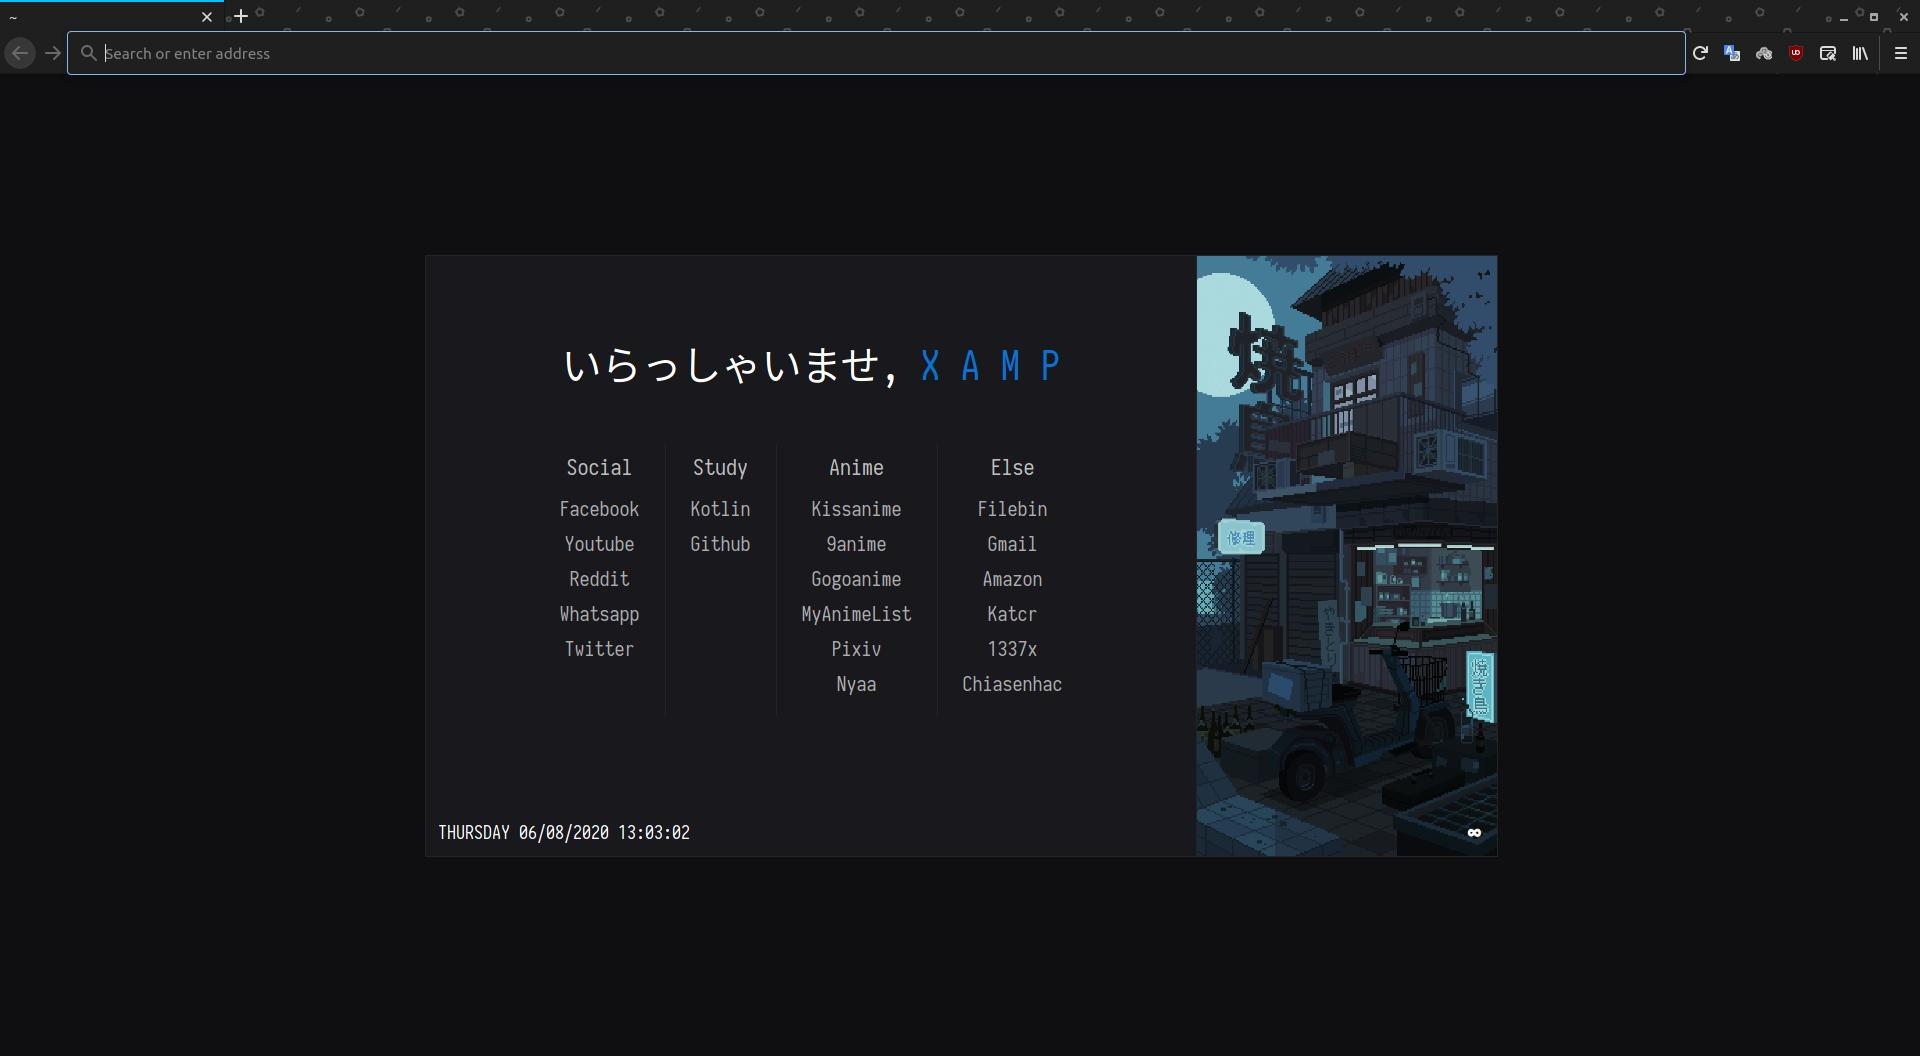
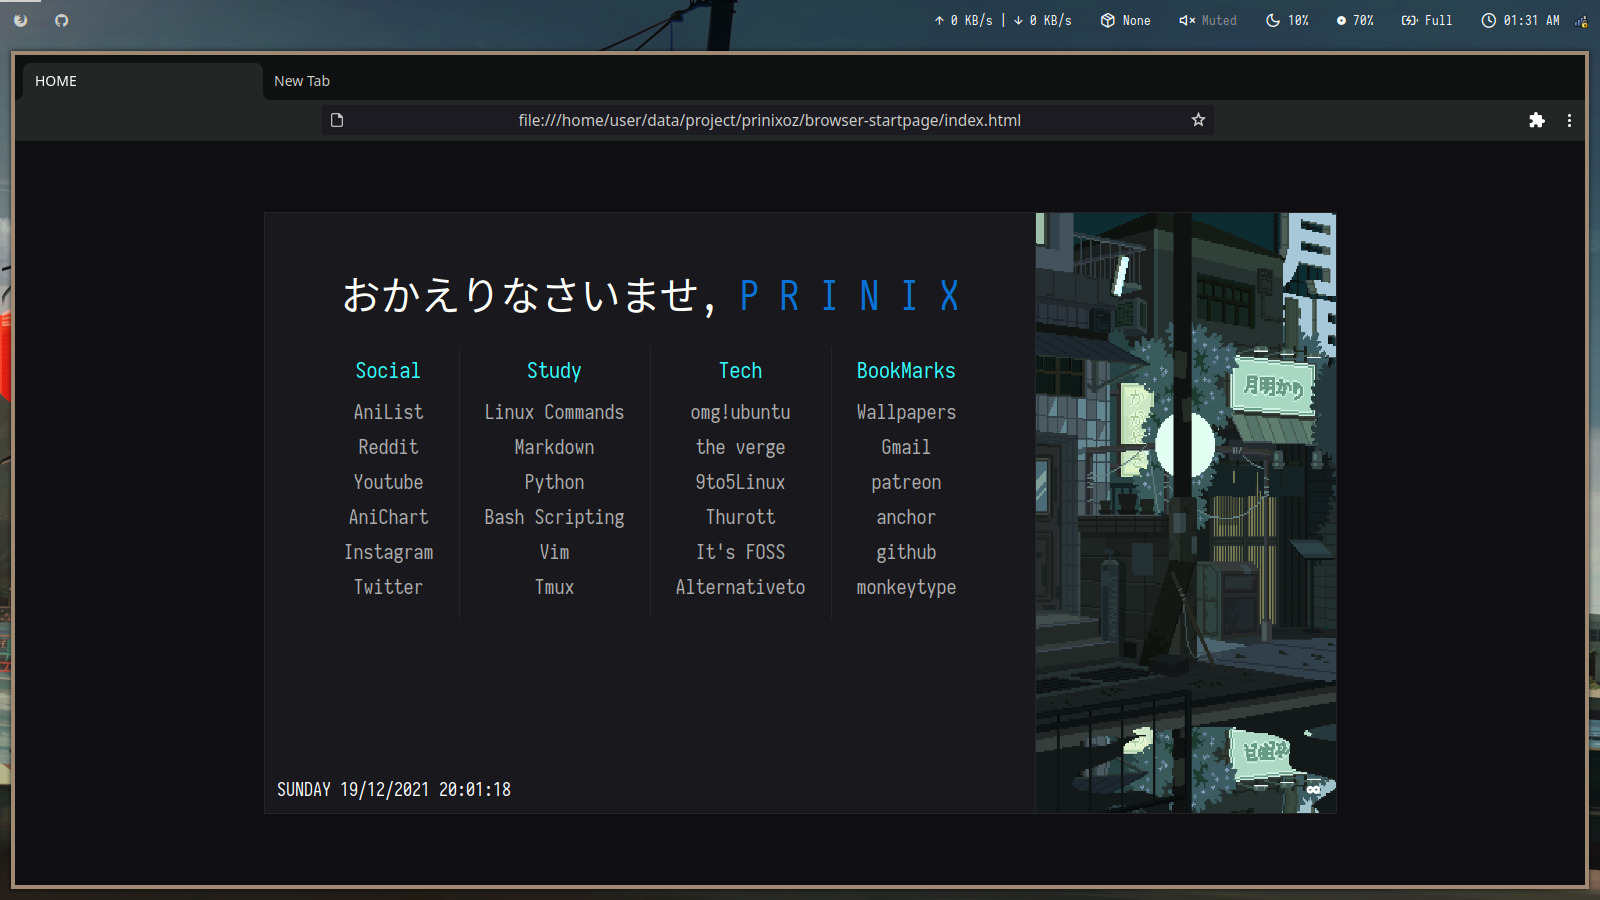
+

diff --git a/index.html b/index.html
@@ -11,128 +11,11 @@
 		<div class="image-wrapper">
 
 			<div class="mySlides fade">
-				<img src="img/side1.gif">
+				<img id="sl-img" src="img/side1.gif">
 			</div>
-
-			<div class="mySlides fade">
-				<img src="img/side2.gif">
-			</div>
-
-			<div class="mySlides fade">
-				<img src="img/side3.gif">
-			</div>
-
-			<div class="mySlides fade">
-				<img src="img/side4.gif">
-			</div>
-
-			<div class="mySlides fade">
-				<img src="img/side5.gif">
-			</div>
-
-			<div class="mySlides fade">
-				<img src="img/side6.gif">
-			</div>
-
-			<div class="mySlides fade">
-				<img src="img/side7.gif">
-			</div>
-
-			<div class="mySlides fade">
-				<img src="img/side8.gif">
-			</div>
-
-			<div class="mySlides fade">
-				<img src="img/side9.gif">
-			</div>
-
-			<div class="mySlides fade">
-				<img src="img/side10.gif">
-			</div>
-
-			<div class="mySlides fade">
-				<img src="img/side11.gif">
-			</div>
-
-			<div class="mySlides fade">
-				<img src="img/side12.gif">
-			</div>
-
-			<div class="mySlides fade">
-				<img src="img/side13.gif">
-			</div>
-
-			<div class="mySlides fade">
-				<img src="img/side14.gif">
-			</div>
-
-			<div class="mySlides fade">
-				<img src="img/side15.gif">
-			</div>
-
-			<div class="mySlides fade">
-				<img src="img/side16.gif">
-			</div>
-
-			<div class="mySlides fade">
-				<img src="img/side17.gif">
-			</div>
-
-			<div class="mySlides fade">
-				<img src="img/side18.gif">
-			</div>
-
-			<div class="mySlides fade">
-				<img src="img/side19.gif">
-			</div>
-
-			<div class="mySlides fade">
-				<img src="img/side20.gif">
-			</div>
-
-			<div class="mySlides fade">
-				<img src="img/side21.gif">
-			</div>
-
-			<div class="mySlides fade">
-				<img src="img/side22.gif">
-			</div>
-
-
-			<div class="mySlides fade">
-				<img src="img/side23.gif">
-			</div>
-
-
-			<a class="next" onclick="plusSlides(1)">&#8734;</a>
+            <a class="next" onclick="rnImg()">&#8734;</a>
 		</div>
 		<br>
-
-		<div style="text-align:center">
-			<span class="reqdVar" onclick="currentSlide(1)"></span>
-			<span class="reqdVar" onclick="currentSlide(2)"></span>
-			<span class="reqdVar" onclick="currentSlide(3)"></span>
-			<span class="reqdVar" onclick="currentSlide(4)"></span>
-			<span class="reqdVar" onclick="currentSlide(5)"></span>
-			<span class="reqdVar" onclick="currentSlide(6)"></span>
-			<span class="reqdVar" onclick="currentSlide(7)"></span>
-			<span class="reqdVar" onclick="currentSlide(8)"></span>
-			<span class="reqdVar" onclick="currentSlide(9)"></span>
-			<span class="reqdVar" onclick="currentSlide(10)"></span>
-			<span class="reqdVar" onclick="currentSlide(11)"></span>
-			<span class="reqdVar" onclick="currentSlide(12)"></span>
-			<span class="reqdVar" onclick="currentSlide(13)"></span>
-			<span class="reqdVar" onclick="currentSlide(14)"></span>
-			<span class="reqdVar" onclick="currentSlide(15)"></span>
-			<span class="reqdVar" onclick="currentSlide(16)"></span>
-			<span class="reqdVar" onclick="currentSlide(17)"></span>
-			<span class="reqdVar" onclick="currentSlide(18)"></span>
-			<span class="reqdVar" onclick="currentSlide(19)"></span>
-			<span class="reqdVar" onclick="currentSlide(20)"></span>
-			<span class="reqdVar" onclick="currentSlide(21)"></span>
-			<span class="reqdVar" onclick="currentSlide(22)"></span>
-			<span class="reqdVar" onclick="currentSlide(23)"></span>
-		</div>
 
 		<header>
 			<br>
@@ -205,46 +88,13 @@
 			}
 			updateClock(); // initial call
 
-			// Set local storage
-			var slideIx = Number(localStorage.getItem('slideIndex') || 1);
+            function rnImg(){
+                let num = Math.ceil(Math.random() * 23)
+                let img=`img/side${num}.gif`
+                document.getElementById('sl-img').src=img
+            }
+            rnImg()
 
-			var slideIndex = slideIx;
-			showSlides(slideIndex);
-
-			// Next/previous controls
-			function plusSlides(n) {
-				showSlides(slideIndex += n);
-				localStorage.setItem('slideIndex', slideIndex);
-				console.log(localStorage.getItem('slideIndex'));
-			}
-
-			// Thumbnail image controls
-			function currentSlides(n) {
-				showSlides(slideIndex = n);
-				localStorage.setItem('slideIndex', slideIndex);
-				console.log(localStorage.getItem('slideIndex'));
-			}
-
-			// Show slides
-			function showSlides(n) {
-				var i;
-				var slides = document.getElementsByClassName("mySlides");
-				var reqdVars = document.getElementsByClassName("reqdVar");
-				if (n > slides.length) {
-					slideIndex = 1;
-				}
-				if (n < 1) {
-					slideIndex = slides.length;
-				}
-				for (i = 0; i < slides.length; i++) {
-					slides[i].style.display = "none";
-				}
-				for (i = 0; i < reqdVars.length; i++) {
-					reqdVars[i].className = reqdVars[i].className.replace(" active", "");
-				}
-				slides[slideIndex-1].style.display = "block";
-				reqdVars[slideIndex-1].className += " active";
-			}
 			</script>
 		</div>
 	</body>
